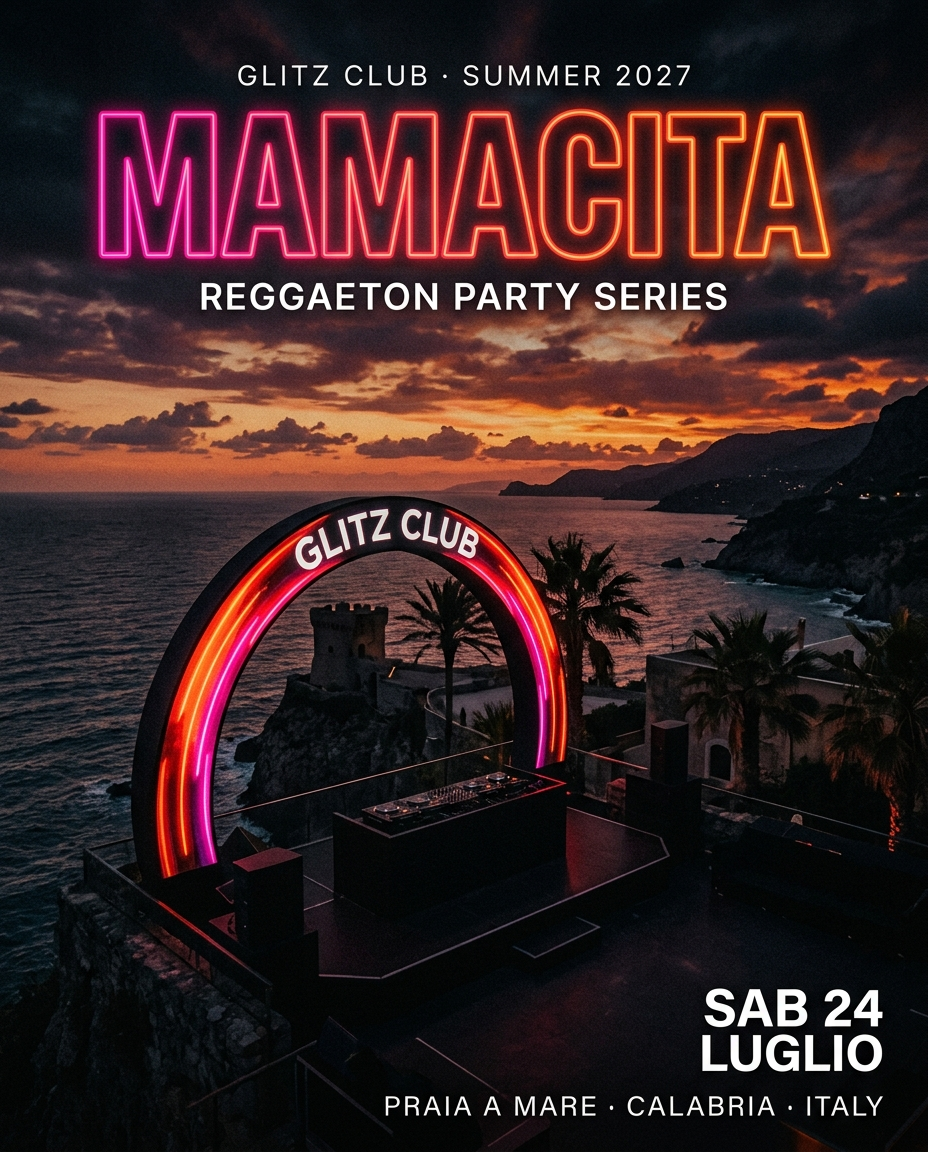
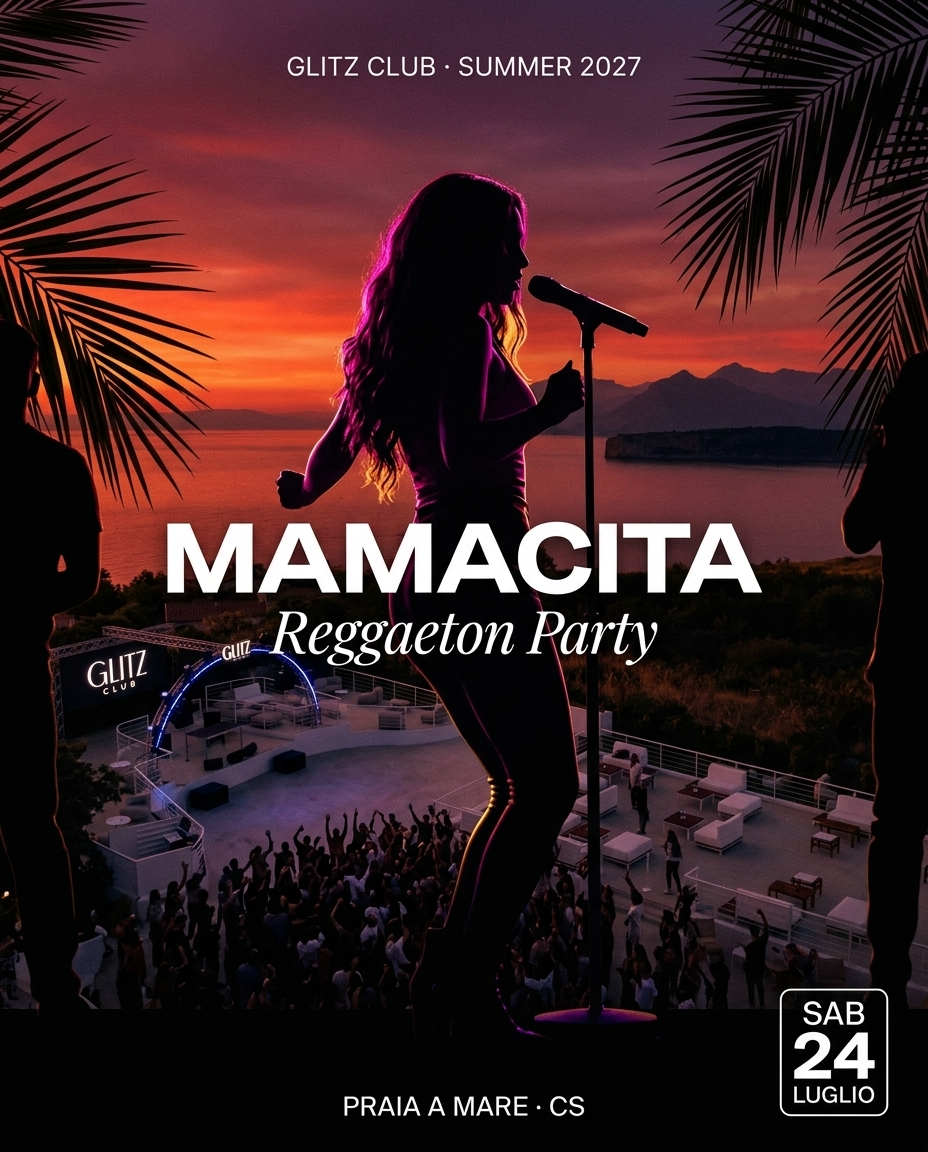
## Programmazione 2027 rigenerata — silhouette + arco Glitz reale
- **10 locandine rifatte con Nano Banana** usando la foto ufficiale del Glitz come reference — arco, deck, Isola di Dino e coastline consistenti in tutti i poster
- Ogni artista ora ha una **silhouette cinematografica** (nessun volto, solo posa): Damante alla consolle di spalle, Bob Sinclar con fedora, Guè al microfono sotto spotlight, A.I. trio in consolle con crowd, Mamacita con palme, Pagante trio ferragostano
- **Rinomine**: FORMAT NOSTRO → A.I. Attenzione Instabile · PEGGY GOU → BOB SINCLAR (con descrizione aggiornata: World Hold On, Love Generation, Rock This Party)
- Verificato desktop end-to-end: pagina `/eventi` mostra i 10 poster nuovi, click su ciascuno apre il dettaglio con piantina per prenotare

- **Next Action Items**:
  - **Countdown Damante Homepage**: Aggiungo un maxi countdown al 26 Giugno 2027 in cima all'home per pumping l'Opening
  - **Prezzi Ticket per Evento**: Mandami i prezzi (prevendita/cassa/VIP) e li mostro sulla card evento e nel booking modal
  - **Ordine Line-up per Data**: Vuoi mostrare gli eventi ordinati cronologicamente o con "IN EVIDENZA" i big (Damante, Bob Sinclar, Guè) in cima
  - **Instagram Auto-post**: Preparo uno script per pubblicare automaticamente ogni locandina sull'account @glitzclubofficial 7 giorni prima dell'evento

Emergent-Commit-Key: 85d5a4dd1ab83ee94489c01746dbb8aa543bb0d3c8e9436c5226da31fcd73236

diff --git a/backend/generate_posters.py b/backend/generate_posters.py
@@ -1,63 +1,81 @@
-"""Genera 10 locandine Glitz Club 2027 con Nano Banana (Gemini) in parallelo."""
-import asyncio
-import base64
-import os
+"""Rigenera le 10 locandine Glitz 2027 con silhouette artisti + arco Glitz reale come reference.
+Cambi: FORMAT NOSTRO → A.I. — Attenzione Instabile; PEGGY GOU → BOB SINCLAR."""
+import asyncio, base64, os
 from pathlib import Path
 from dotenv import load_dotenv
-from emergentintegrations.llm.chat import LlmChat, UserMessage
+from emergentintegrations.llm.chat import LlmChat, UserMessage, ImageContent
 
 load_dotenv(Path(__file__).parent / ".env")
 KEY = os.environ["EMERGENT_LLM_KEY"]
 OUT_DIR = Path("/app/frontend/public/events")
 OUT_DIR.mkdir(parents=True, exist_ok=True)
 
+# Foto reale Glitz con l'arco (vista aerea al tramonto) — riferimento veritiero
+REF_IMAGE = Path("/app/backend/refs/arch_ref.jpg")
+with open(REF_IMAGE, "rb") as f:
+    REF_B64 = base64.b64encode(f.read()).decode()
+
 BASE_STYLE = (
-    "Cinematic open-air nightclub event poster. Dark moody Mediterranean sunset over the sea, "
-    "silhouette of an iconic Glitz Club open-air venue with a curved LED arch above the DJ booth. "
-    "Neon accents of lava red, sunset orange and deep purple. Editorial luxury typography. "
-    "Vertical 4:5 portrait aspect ratio. Deep blacks, cinematic film grain, high contrast. "
-    "No people visible. Coastal architecture, Praia a Mare Calabria vibe. Minimal, moody, expensive."
+    "Cinematic Italian open-air nightclub event poster. Vertical 4:5 portrait aspect ratio. "
+    "CRUCIAL: use the ACTUAL Glitz Club venue from the reference photo — the arched LED stage structure, "
+    "the open-air deck, the Tyrrhenian sea, Isola di Dino island silhouette in the distance, Praia a Mare coastline. "
+    "FOREGROUND: full-body DARK SILHOUETTE of the artist(s) shown from behind or side profile, "
+    "backlit with warm rim light, NO facial features visible, hair and posture only. "
+    "Deep cinematic sunset sky in lava red, sunset orange and deep purple gradients. "
+    "Editorial luxury typography, minimalist. Deep blacks, cinematic film grain, high contrast. "
+    "Absolutely realistic Italian summer club atmosphere — no fantasy elements, no fictional architecture."
 )
 
-def poster_prompt(title: str, subtitle: str, date_txt: str, vibe: str) -> str:
+def prompt(name, subtitle, date_txt, silhouette_desc):
     return (
-        f"{BASE_STYLE} Additional vibe: {vibe}. "
-        f"Text overlay (must be crisp and readable): top small caps 'GLITZ CLUB · SUMMER 2027', "
-        f"large bold uppercase headline '{title}', below smaller subtitle '{subtitle}', "
-        f"and bottom-right date '{date_txt}'. "
-        f"Location tag 'PRAIA A MARE · CS'."
+        f"{BASE_STYLE} "
+        f"Artist silhouette detail: {silhouette_desc}. "
+        f"Text overlay MUST be crisp and readable: top small caps 'GLITZ CLUB · SUMMER 2027', "
+        f"large bold uppercase headline '{name}', subtitle in serif italic '{subtitle}', "
+        f"bottom-right date badge '{date_txt}', location tag 'PRAIA A MARE · CS'. "
+        f"Preserve the Glitz Club architecture and coastal geography from the reference photo."
     )
 
 EVENTS = [
-    ("opening-damante",   "DAMANTE",       "Opening Season 2027",         "SAB 26 GIUGNO",  "grand opening, fireworks over the sea, celebratory red-carpet neon aura, iconic italian house DJ energy"),
-    ("giada-brince",      "GIADA BRINCE",  "Melodic Techno Night",        "SAB 03 LUGLIO",  "hypnotic melodic techno, deep purple mist, female headliner powerful stage presence"),
-    ("raul-dumitras",     "RAUL DUMITRAS", "Tech House Session",          "SAB 10 LUGLIO",  "raw underground tech house, industrial concrete + sunset, warehouse-club fusion"),
-    ("format-nostro",     "FORMAT NOSTRO", "Italian House Movement",      "SAB 17 LUGLIO",  "italian house collective, warm sunset tones, group energy, tribal drums"),
-    ("mamacita-luglio",   "MAMACITA",      "Reggaeton Party Series",      "SAB 24 LUGLIO",  "reggaeton tropical vibe, pink and hot magenta neon, palm trees, latin party energy, MAMACITA logo aesthetic"),
-    ("ludwig",            "LUDWIG",        "House & Disco Show",          "VEN 06 AGOSTO",  "disco-house glamour, gold and champagne accents, glitter mist, retro-futurist"),
-    ("pagante-ferragosto","PAGANTE",       "Ferragosto Special",          "SAB 14 AGOSTO",  "ferragosto festive party, pop-culture kitsch, playful multicolor neon, Italian summer meme aesthetic, party pop"),
-    ("peggy-gou",         "PEGGY GOU",     "International Headliner",     "SAB 21 AGOSTO",  "international superstar DJ, futuristic minimalist, K-pop meets club culture, chrome and cobalt blue accents"),
-    ("gue",               "GUÈ",           "Live in Concert",             "VEN 27 AGOSTO",  "italian rap concert, spotlight cone, smoke, chrome silver + red neon, urban gritty luxurious"),
-    ("mamacita-closing",  "MAMACITA",      "Closing Party 2027",          "SAB 28 AGOSTO",  "grand closing reggaeton finale, fireworks + magenta pink + palm tree silhouettes, MAMACITA logo aesthetic, farewell energy"),
+    ("opening-damante",    "DAMANTE",       "Opening Season 2027",       "SAB 26 GIUGNO",
+     "male DJ silhouette from behind, medium athletic build, short dark hair, hands raised over the DJ booth, celebrating the opening"),
+    ("giada-brince",       "GIADA BRINCE",  "Melodic Techno Night",      "SAB 03 LUGLIO",
+     "female DJ silhouette from behind, long straight hair falling past shoulders, hands on the mixer, slim silhouette against purple mist"),
+    ("raul-dumitras",      "RAUL DUMITRAS", "Tech House Session",        "SAB 10 LUGLIO",
+     "male DJ silhouette in profile, tall lean build, concentrated head-down posture, hands on the CDJs"),
+    ("ai-attenzione",      "A.I.",          "Attenzione Instabile",      "SAB 17 LUGLIO",
+     "silhouettes of a duo/trio DJ collective side by side behind the booth, dynamic body language, collective energy"),
+    ("mamacita-luglio",    "MAMACITA",      "Reggaeton Party",           "SAB 24 LUGLIO",
+     "silhouette of a female performer with long wavy hair dancing/singing at the mic, tropical palm fronds framing the scene, magenta neon rim light"),
+    ("ludwig",             "LUDWIG",        "House & Disco Show",        "VEN 06 AGOSTO",
+     "male DJ silhouette from behind, elegant posture, one hand on the mixer, disco-glam vibe with warm gold rim light"),
+    ("pagante-ferragosto", "PAGANTE",       "Ferragosto Special",        "SAB 14 AGOSTO",
+     "silhouettes of three party performers side by side, playful poses, pop-culture group energy, festive Ferragosto vibe with fireworks in the sky"),
+    ("bob-sinclar",        "BOB SINCLAR",   "International Headliner",   "SAB 21 AGOSTO",
+     "iconic male DJ silhouette from behind wearing a fedora hat and headphones around his neck, one arm raised triumphantly, French house legend pose"),
+    ("gue",                "GUÈ",           "Live in Concert",           "VEN 27 AGOSTO",
+     "male rapper silhouette side-profile at center stage holding a microphone close to the mouth, dropped shoulder pose, spotlight cone illuminating him from above"),
+    ("mamacita-closing",   "MAMACITA",      "Closing Party 2027",        "SAB 28 AGOSTO",
+     "silhouette of a female performer with arms wide open in celebration, palm fronds framing, magenta pink fireworks in the sky, closing farewell energy"),
 ]
 
-async def gen_one(slug: str, title: str, subtitle: str, date_txt: str, vibe: str):
-    prompt = poster_prompt(title, subtitle, date_txt, vibe)
+async def gen_one(slug, name, subtitle, date_txt, silh):
     print(f"[start] {slug}")
-    chat = LlmChat(api_key=KEY, session_id=f"glitz-{slug}", system_message="You are a cinematic poster designer.")
+    chat = LlmChat(api_key=KEY, session_id=f"glitz-v2-{slug}",
+                   system_message="You are a cinematic Italian club poster designer using real venue photo references.")
     chat.with_model("gemini", "gemini-3.1-flash-image-preview").with_params(modalities=["image", "text"])
     try:
-        _text, images = await chat.send_message_multimodal_response(UserMessage(text=prompt))
+        msg = UserMessage(text=prompt(name, subtitle, date_txt, silh), file_contents=[ImageContent(REF_B64)])
+        _text, images = await chat.send_message_multimodal_response(msg)
         if not images:
-            print(f"[FAIL] {slug} — no image returned")
+            print(f"[FAIL] {slug} — no image")
             return slug, None
-        img = images[0]
         out = OUT_DIR / f"{slug}.png"
-        out.write_bytes(base64.b64decode(img["data"]))
-        print(f"[done]  {slug} → {out} ({out.stat().st_size} bytes)")
+        out.write_bytes(base64.b64decode(images[0]["data"]))
+        print(f"[done]  {slug} → {out.stat().st_size} bytes")
         return slug, f"/events/{slug}.png"
     except Exception as e:
-        print(f"[FAIL]  {slug} — {e}")
+        print(f"[FAIL] {slug} — {e}")
         return slug, None
 
 async def main():

diff --git a/backend/seed_events_2027.py b/backend/seed_events_2027.py
@@ -71,14 +71,14 @@ EVENTS = [
         "floorplan_enabled": True,
     },
     {
-        "slug": "format-nostro",
-        "title": "FORMAT NOSTRO — Italian House Movement",
+        "slug": "ai-attenzione",
+        "title": "A.I. — Attenzione Instabile",
         "date": "2027-07-17T22:00:00+02:00",
-        "lineup": ["Format Nostro Collective", "Guest Special TBA"],
+        "lineup": ["A.I. Collective", "Guest Special TBA"],
         "description": (
-            "Il collettivo **Format Nostro** sbarca per la prima volta al Glitz. "
-            "Il format che sta ridefinendo la scena house italiana con serate sold out da Milano a Napoli porta la sua energia sul Belvedere. "
-            "Warm sunset tones, tribal drums, italo-house nostalgia con una punta di groove contemporaneo. "
+            "**A.I. — Attenzione Instabile** sbarca per la prima volta al Glitz. "
+            "Il format che sta ridefinendo la scena house/techno italiana con serate sold out da Milano a Napoli porta la sua energia sul Belvedere. "
+            "Warm sunset tones, tribal drums, house nostalgia con una punta di groove contemporaneo. "
             "Serata pensata per ballare fino al tramonto seguente, con un roster di DJ che si passano il testimone senza soluzione di continuità."
         ),
         "location": "Contrada Dino, San Nicola Arcella (CS)",
@@ -131,14 +131,14 @@ EVENTS = [
         "floorplan_enabled": True,
     },
     {
-        "slug": "peggy-gou",
-        "title": "PEGGY GOU — International Headliner",
+        "slug": "bob-sinclar",
+        "title": "BOB SINCLAR — International Headliner",
         "date": "2027-08-21T22:00:00+02:00",
-        "lineup": ["Peggy Gou", "Opening: Angelica Nova"],
+        "lineup": ["Bob Sinclar", "Opening: Angelica Nova"],
         "description": (
-            "**PEGGY GOU** al Glitz. L'headliner internazionale della stagione. "
-            "La regina globale del clubbing arriva a Praia a Mare dopo i suoi sold out a Ibiza, Coachella e Tokyo. "
-            "Un set di house profonda, K-house iconica, groove ipnotico e i suoi hit più cantati — da \"It Goes Like Nanana\" a \"I Believe In Love Again\". "
+            "**BOB SINCLAR** al Glitz. L'headliner internazionale della stagione. "
+            "La leggenda francese della French house arriva a Praia a Mare dopo i suoi sold out da Ibiza a Miami. "
+            "Un set di house melodica, groove solare e i suoi hit più cantati — da \"World Hold On\" a \"Love Generation\", \"Rock This Party\" e \"Sound Of Freedom\". "
             "Ingressi contingentati, area VIP privé sold out da mesi. È la notte che segnerà l'estate italiana 2027 e che ricorderai per sempre."
         ),
         "location": "Contrada Dino, San Nicola Arcella (CS)",

diff --git a/memory/PRD.md b/memory/PRD.md
@@ -2,11 +2,6 @@
 
 ## Problema
 Sito cinematografico per Glitz Club (glitzclub.it) — open-air 2000 posti a Praia a Mare.
-- Frontend React + Backend FastAPI + MongoDB
-- Piantina 40 tavoli (3 zone) + booking → WhatsApp + DB
-- Shop merchandise con Stripe checkout + WhatsApp fallback
-- Admin JWT
-- Reminder email 3h prima via Resend (cron Emergent)
 
 ## Lingua utente
 Italiano.
@@ -14,22 +9,26 @@ Italiano.
 ## Cosa è già stato implementato
 - MVP completo (hero, countdown, FAQ, eventi, blog, gallery, mappa, contatti)
 - Admin dashboard con JWT + CRUD eventi/blog/settings + upload media
-- **[16 Set 2026] Piantina pixel-perfect** — usa `/floorplan-official.png` come sfondo con 40 hotspot cliccabili trasparenti nelle posizioni esatte (rilevate via image analysis 1254×1254). Hover mostra tooltip con nome tavolo e zona, tavoli prenotati mostrano X rossa.
+- Piantina pixel-perfect (immagine invertita bianco su nero, 40 hotspot cliccabili)
 - Booking modal → salva DB + WhatsApp deep-link
 - Cron Emergent `/api/cron/reminders` → Resend email 3h prima
 - Pagina "Il Club" con 5 ambienti
-- Shop `/shop` + `/shop/:id` con 6 prodotti + gallery 4 foto + Stripe checkout + WhatsApp fallback + pagine success/cancel
-- Gift Card usa logo Glitz nero come immagine
+- Shop `/shop` + `/shop/:id` con 6 prodotti + gallery + Stripe checkout + WhatsApp fallback
+- **[16 Set 2026] Programmazione 2027 completa** — 10 eventi con locandine AI Nano Banana:
+  - Silhouette artisti + arco Glitz reale (estratto da `refs/arch_ref.jpg`)
+  - 26 Giu: DAMANTE (Opening) · 3 Lug: GIADA BRINCE · 10 Lug: RAUL DUMITRAS · 17 Lug: **A.I. — Attenzione Instabile** · 24 Lug: MAMACITA · 6 Ago: LUDWIG · 14 Ago (Ferragosto): PAGANTE · 21 Ago: **BOB SINCLAR** (internazionale) · 27 Ago: GUÈ (concerto) · 28 Ago: MAMACITA CLOSING
+  - Ogni evento ha lineup, descrizione dettagliata IT, ticket TicketSMS, piantina attivata
 
 ## Backlog / Future
 - Admin CRUD prodotti shop — P1
-- Upload immagini prodotti da backoffice — P1
-- Mobile app Phase 2 — P2
+- Countdown Opening DAMANTE (26 Giu 2027) in homepage — P1
+- Prezzi Tavoli nel tooltip piantina — P2
 - Localizzazione EN (i18n) — P2
 
 ## Info critica
 - Cron via `.emergent/crons.yml`
 - Auth JWT — credenziali in `/app/memory/test_credentials.md`
 - Stripe sandbox: `acct_1UFtZvEu0vFfkg7R`
-- Setup catalogo: `python3 /app/backend/setup_stripe.py`
-- Piantina background: `/app/frontend/public/floorplan-official.png` (immagine ufficiale utente)
+- Poster generation: `python3 /app/backend/generate_posters.py` (usa Nano Banana + `refs/arch_ref.jpg`)
+- Seed eventi: `python3 /app/backend/seed_events_2027.py` (idempotente: cancella tutti e reinserisce)
+- Locandine salvate in `/app/frontend/public/events/{slug}.png`
